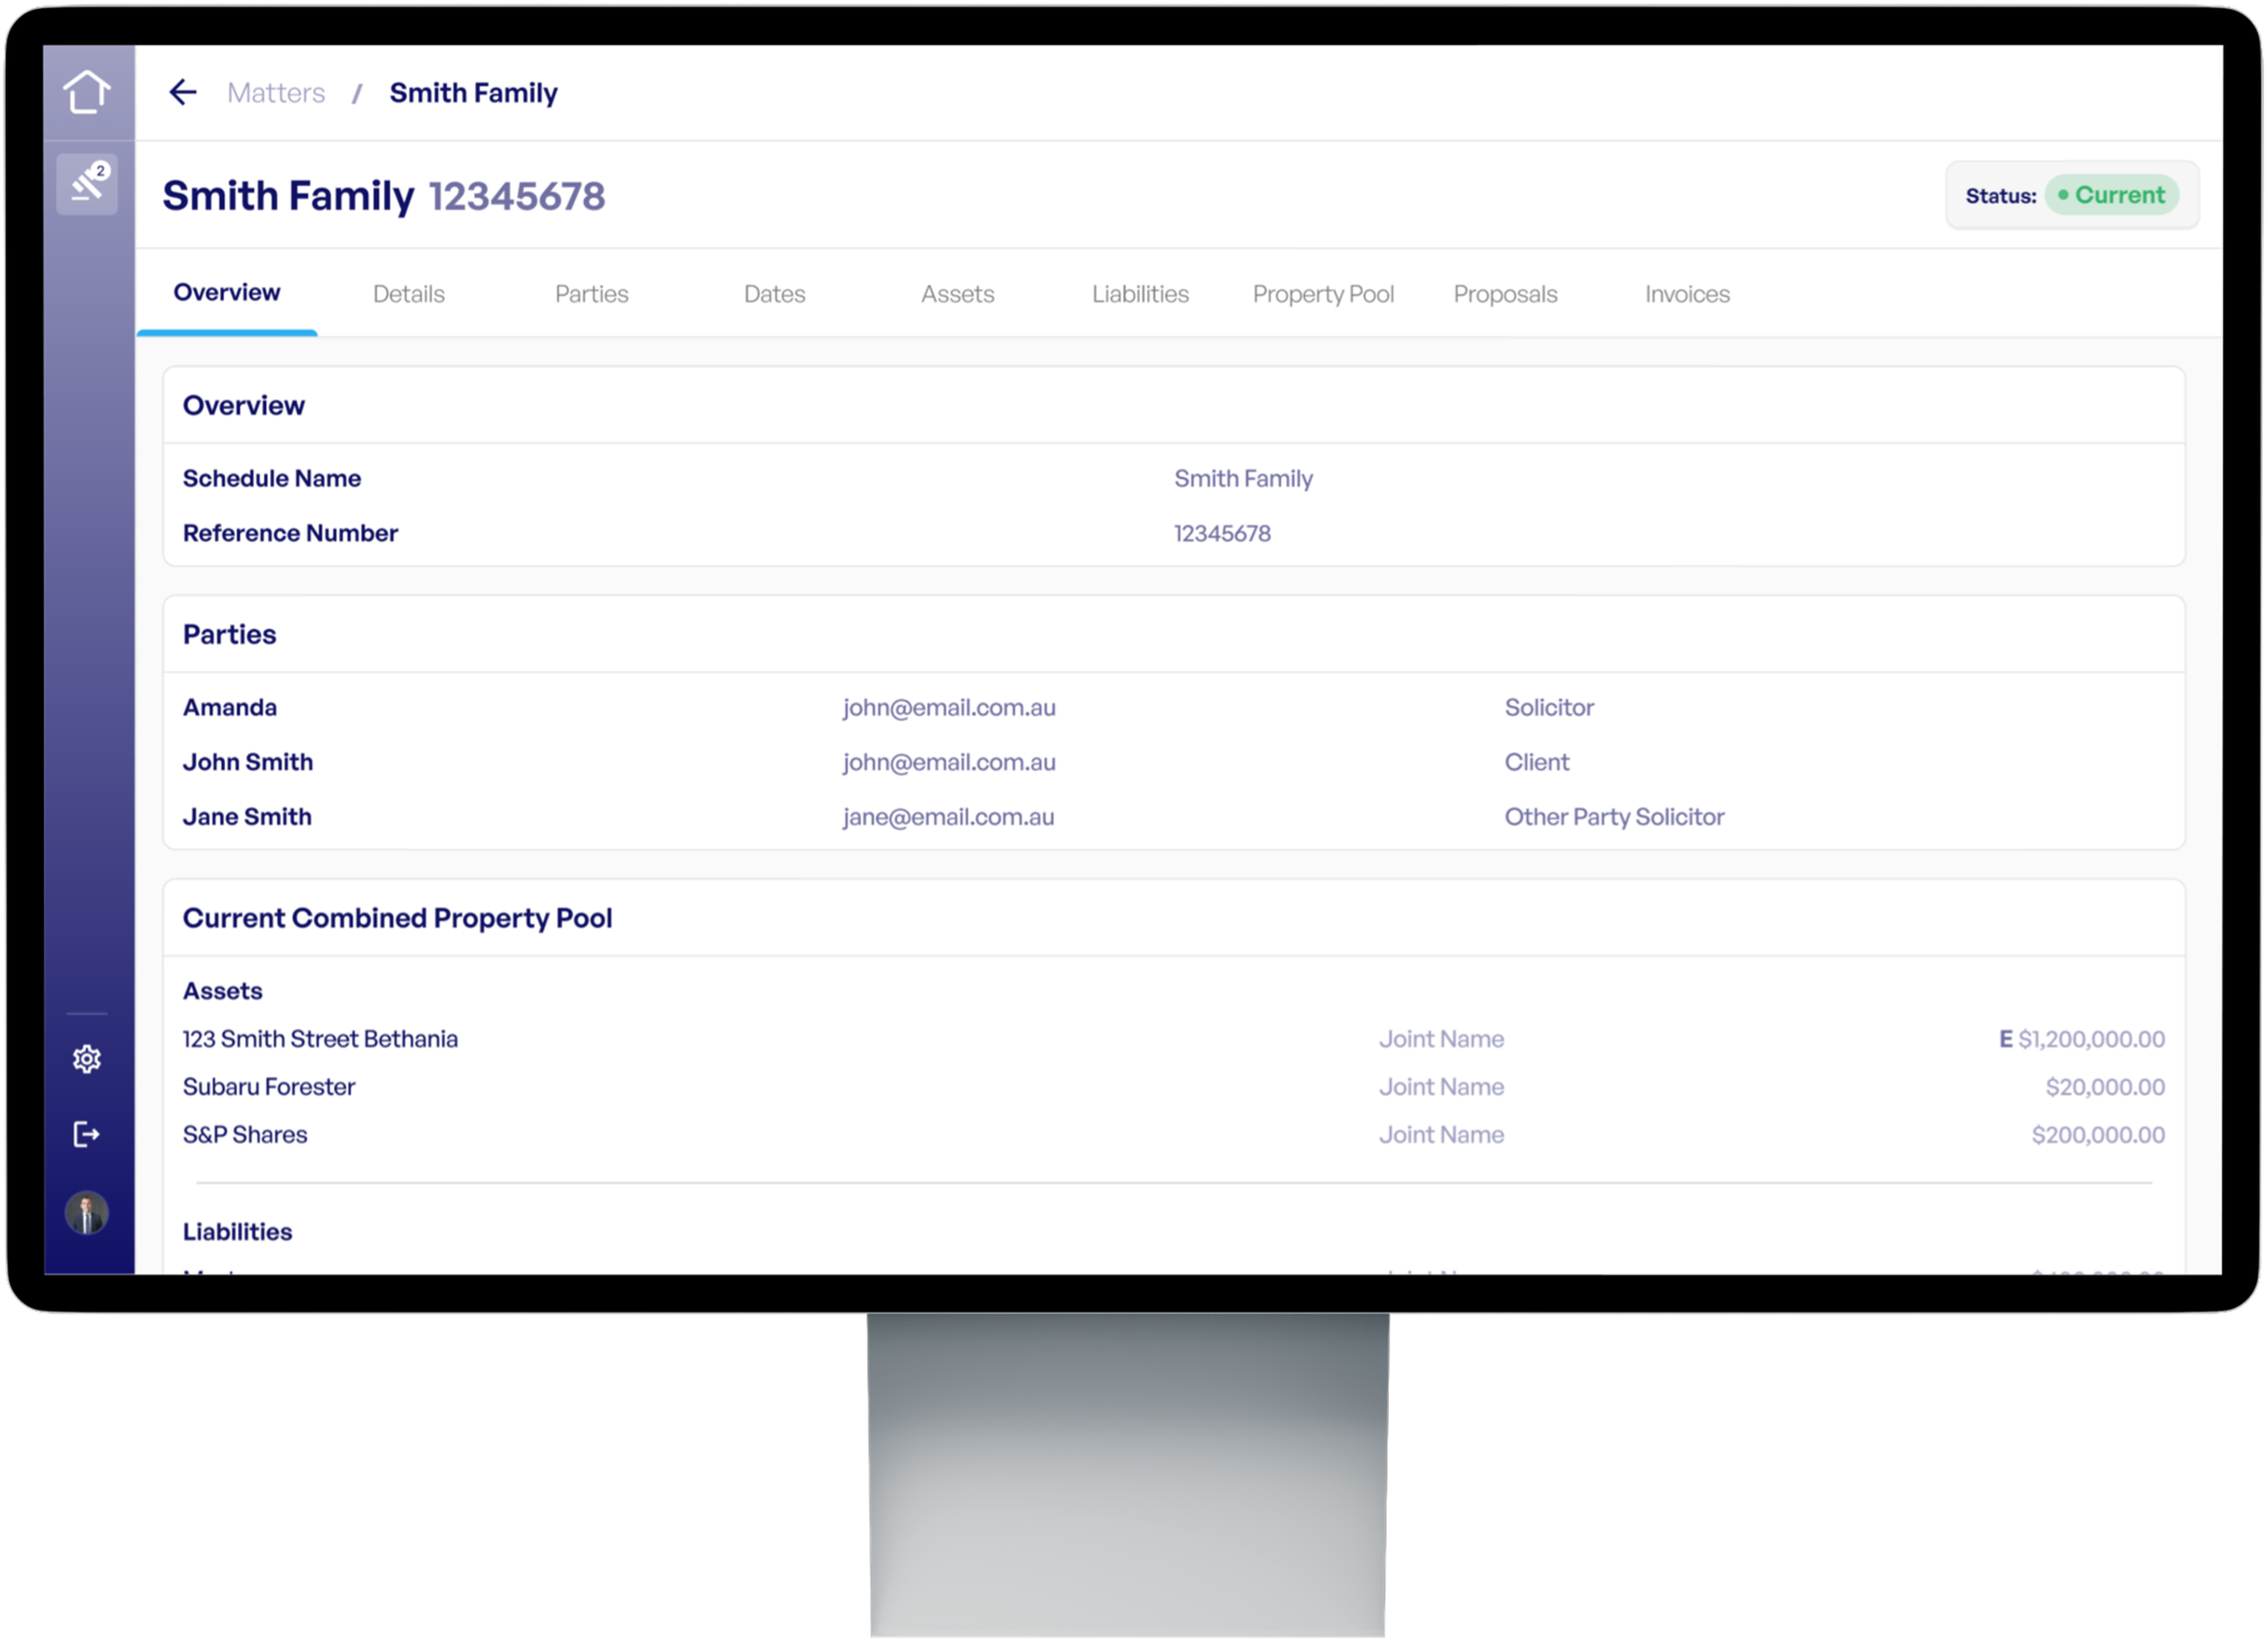
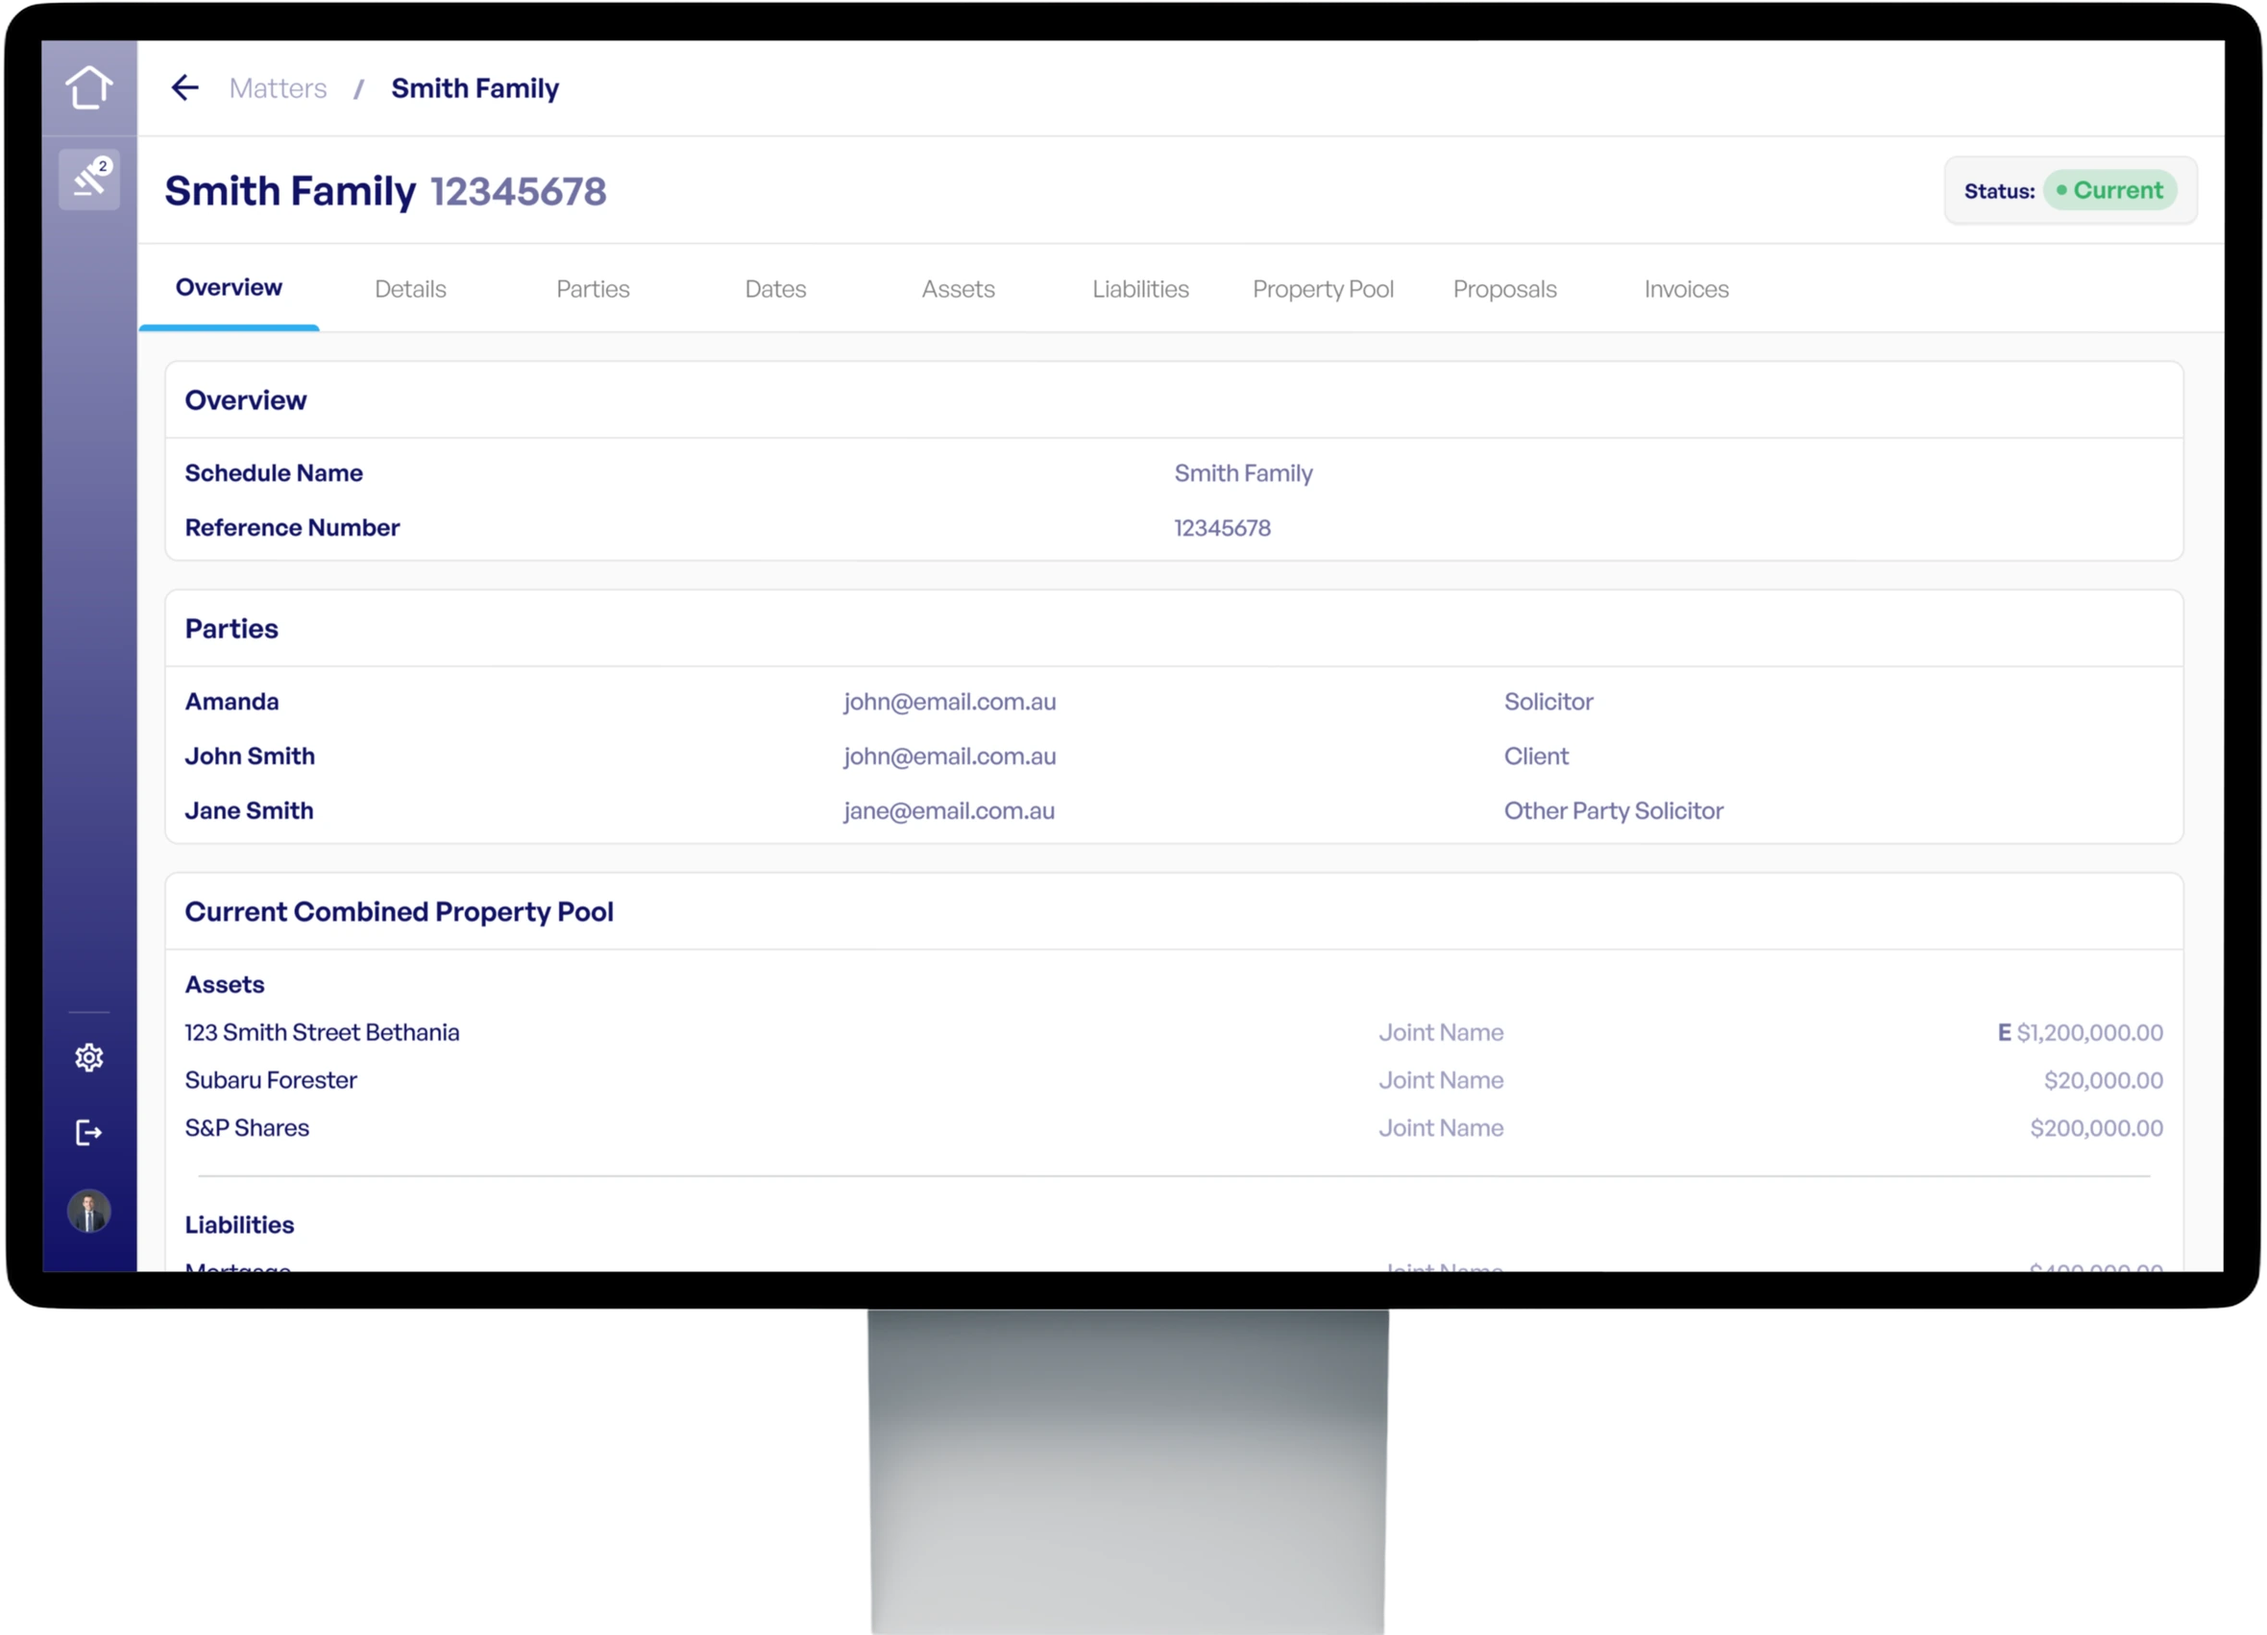
Swap hero and build-the-pool screenshots for client's updated versions
Cropped the new hero mockup tight to the device (was carrying ~400px of
dead transparent margin above it) and re-measured the fade mask against
it — screen/bezel/stand boundaries land within a fraction of a percent
of the old asset, so the existing mask stops still hold.

diff --git a/index.html b/index.html
@@ -957,7 +957,7 @@
          shift on the largest element on the page. No ratio is assumed anywhere
          else, so any ratio is fine as long as these two agree with the file. -->
     <div class="shot shot--stage is-device">
-      <img class="shot__img" src="assets/hero-net-pool.webp" alt="The Lex Settle matter overview for the Smith Family matter, showing the parties and the current combined property pool with its schedule of assets and liabilities." width="2360" height="1708" fetchpriority="high" decoding="async">
+      <img class="shot__img" src="assets/hero-net-pool.webp" alt="The Lex Settle matter overview for the Smith Family matter, showing the parties and the current combined property pool with its schedule of assets and liabilities." width="2360" height="1703" fetchpriority="high" decoding="async">
       <div class="shot__inner">
         <span class="label shot__kicker">App screenshot</span>
         <span class="shot__name">Net property pool / matter overview</span>
